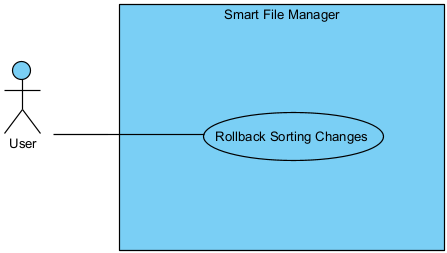
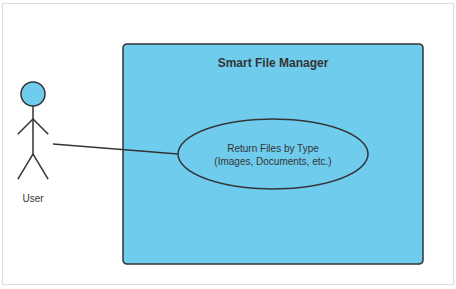
Updated assets and user stories

diff --git a/docs/documentation/demo_3/srs.md b/docs/documentation/demo_3/srs.md
@@ -45,26 +45,26 @@ SFM is not just another tool, it's your new digital housekeeper, your AI file fi
 
 **As a:** New user.  
 **I want to:** Register for an account using either the web portal or after downloading the app.  
-**So that I:** I can log in an sync all my preferences across multiple devices.
+**So that I:** I can log in and sync all my preferences across multiple devices.
 
 #### Acceptance criteria:
 
 **Given** I am a new user.  
-**When** I navigate to either the web portal registraton page or choose register on the application.  
+**When** I navigate to either the web portal registration page or choose register on the application.  
 **Then** My account is created and I should be notified that it took place successfully.  
-**Covers:** UC15
+**Covers:** UC19
 
-### 2. User Story: Download the Application
+### 2. User Story: Download and Install the Application
 
 **As a:** New or registered user.  
-**I want to:** Download the SFM app on to my device.  
-**So that I:** Can install the application.
+**I want to:** Download and install the SFM app on to my device.  
+**So that I:** Can use the application to manage my files.
 
 #### Acceptance criteria:
 
-**Given** I have access to the SFM portal.  
-**When** I click the correct download button for my platform (Windows /macOS / linux).  
-**Then** The application files are downloaded to my system.  
+**Given** I have access to the SFM portal and my system meets requirements.  
+**When** I click the correct download button for my platform (Windows /macOS / linux) and run the installer.  
+**Then** The application is successfully installed and ready for configuration.  
 **Covers:** UC1
 
 ### 3. User Story: Log into the application
@@ -89,8 +89,8 @@ SFM is not just another tool, it's your new digital housekeeper, your AI file fi
 #### Acceptance criteria:
 
 **Given** I have installed the application.  
-**When** I click on create new smart manager.  
-**Then** I am prompted for the root directory and a smart manager is created which sorts all the content by its semantic meaning.  
+**When** I click on create new smart manager and select a root directory.  
+**Then** A smart manager is created and the system updates its scan targets to monitor this directory.  
 **Covers:** UC8
 
 ### 5. User Story: Configure sorting preferences
@@ -102,8 +102,8 @@ SFM is not just another tool, it's your new digital housekeeper, your AI file fi
 #### Acceptance criteria:
 
 **Given** I have installed the application.  
-**When** I open the settings and configure rules for sorting and sorting timers.  
-**Then** My settings are saved and applied for future sorting.  
+**When** I open the settings and configure rules for sorting (metadata, keywords, tags) and sorting timers.  
+**Then** My configuration is saved and applied for future sorting.  
 **Covers:** UC3
 
 ### 6. User Story: Tag files manually
@@ -115,24 +115,11 @@ SFM is not just another tool, it's your new digital housekeeper, your AI file fi
 #### Acceptance criteria:
 
 **Given** The application is installed and a smart manager created.  
-**When** I open the settings and configure rules for sorting and sorting timers.  
-**Then** My settings are saved and applied for future sorting.  
+**When** I select files and assign custom tags to them.  
+**Then** Tags are stored and associated with the files for use in sorting.  
 **Covers:** UC4
 
-### 7. User Story: Auto-sort files
-
-**As a:** Smart Folder.  
-**I want to:** Automatically sort folders and files at a regular interval.  
-**So that I:** Keep directories organized without human intervention.
-
-#### Acceptance criteria:
-
-**Given** Files exist in a monitored directory and user preferences are set.  
-**When** The timer for sorting expires.  
-**Then** Files are moved to a more appropriate directory by the AI sorter.  
-**Covers:** UC5
-
-### 8. User Story: Graph File organization visualization
+### 7. User Story: Graph File organization visualization
 
 **As a:** User.  
 **I want to:** See how my files are organized via an intuitive mind-map / graph view.  
@@ -142,14 +129,14 @@ SFM is not just another tool, it's your new digital housekeeper, your AI file fi
 
 **Given** I have created a smart manager which contains content.  
 **When** I click on graph view.  
-**Then** I see an interactive graph of my files and folders.  
+**Then** I see an interactive graph-based UI of my files and folders.  
 **Covers:** UC7
 
-### 9. User Story: Traditional File organization visualization
+### 8. User Story: Traditional File organization visualization
 
 **As a:** User.  
 **I want to:** See how my files are organized via traditional folder viewer.  
-**So that I:** May traverse and interact with files in a well-know manner.
+**So that I:** May traverse and interact with files in a well-known manner.
 
 #### Acceptance criteria:
 
@@ -158,7 +145,7 @@ SFM is not just another tool, it's your new digital housekeeper, your AI file fi
 **Then** I can traverse through the folder structure by clicking on folders.  
 **Covers:** UC7
 
-### 10. User Story: Trigger Manual Sort
+### 9. User Story: Trigger Manual Sort
 
 **As a:** User.  
 **I want to:** Manually initiate a file sorting process.  
@@ -167,11 +154,11 @@ SFM is not just another tool, it's your new digital housekeeper, your AI file fi
 #### Acceptance criteria:
 
 **Given** The application is installed and settings configured.  
-**When** I click on Sort Now on a smart mananger.  
-**Then** The system initiates a reorganization of the smart manager.  
+**When** I click on Sort Now on a smart manager.  
+**Then** The sorting process begins and files are moved/sorted appropriately.  
 **Covers:** UC9
 
-### 11. User Story: Lock files and folders
+### 10. User Story: Lock files and folders
 
 **As a:** User.  
 **I want to:** Lock specific files and folders.  
@@ -181,10 +168,10 @@ SFM is not just another tool, it's your new digital housekeeper, your AI file fi
 
 **Given** I have a smart manager with content.  
 **When** I select a file or folder and click the lock button.  
-**Then** The item is excluded from future organization operations.  
+**Then** The item is excluded from future organization operations and locked items are skipped during sorting.  
 **Covers:** UC10
 
-### 12. User Story: View File metadata
+### 11. User Story: View File metadata
 
 **As a:** User.  
 **I want to:** See metadata associated with a file.  
@@ -192,38 +179,38 @@ SFM is not just another tool, it's your new digital housekeeper, your AI file fi
 
 #### Acceptance criteria:
 
-**Given** I have a smart manager with content.  
+**Given** I have a smart manager with content and files are indexed by the system.  
 **When** I select a file by clicking on it.  
-**Then** A side-menu pops up showing me the metadata associated with that file.  
-**Covers:** UC10
+**Then** A side-menu pops up showing me the detailed metadata associated with that file.  
+**Covers:** UC6
 
-### 13. User Story: Search files, tags or metadata
+### 12. User Story: Search files, tags or metadata
 
 **As a:** User.  
-**I want to:** Search for files using names, tags or metadata.  
+**I want to:** Search for files using names, tags or keywords.  
 **So that I:** Can quickly find relevant content.
 
 #### Acceptance criteria:
 
 **Given** My files are sorted in a smart manager.  
 **When** I enter a search query in the search bar.  
-**Then** A list of files matching the criteria is returned.  
+**Then** Search results matching the criteria are displayed.  
 **Covers:** UC11
 
-### 14. User Story: Rollback sorting changes
+### 13. User Story: Apply or Discard sorting changes
 
 **As a:** User.  
-**I want to:** Undo the last sorting operation.  
-**So that I:** Restore my organization to what is was before the last sort.
+**I want to:** Review sorting changes and decide whether to apply them or discard them.  
+**So that I:** Have control over whether changes are made to my file system.
 
 #### Acceptance criteria:
 
-**Given** I have performed a smart organization.  
-**When** I Click on the rollback button for a smart manager.  
-**Then** All files are returned to their exact previous location.  
-**Covers:** UC11
+**Given** I have performed a smart organization and sorting has occurred.  
+**When** I review the proposed changes and click apply or discard.  
+**Then** Either changes are applied to the file system or files return to their prior state.  
+**Covers:** UC12
 
-### 15. User Story: Add a new file or folder.
+### 14. User Story: Add a new file or folder
 
 **As a:** User.  
 **I want to:** Create a new file or folder at some location in my smart manager.  
@@ -236,10 +223,10 @@ SFM is not just another tool, it's your new digital housekeeper, your AI file fi
 **Then** The new item is added to the smart manager but not yet sorted.  
 **Covers:** UC8
 
-### 16. User Story: Stay logged in.
+### 15. User Story: Stay logged in
 
 **As a:** User.  
-**I want to:** Remained logged in after restarting the app.  
+**I want to:** Remain logged in after restarting the app.  
 **So that I:** Don't have to log in every time I open the app.
 
 #### Acceptance criteria:
@@ -249,17 +236,70 @@ SFM is not just another tool, it's your new digital housekeeper, your AI file fi
 **Then** I am automatically still logged in.  
 **Covers:** UC2
 
-### 17. User Story: Customize smart sort behaviour.
+### 16. User Story: Filter files by type
 
-**As an:** Advanced User.  
-**I want to:** Set the influence of tags, metadata and other criteria on the sorting AI.  
-**So that I:** Have fine control over the system.
+**As a:** User.  
+**I want to:** View files filtered by their type (e.g., images, documents, music).  
+**So that I:** Can quickly access specific types of content.
 
 #### Acceptance criteria:
 
-**Given** Advanced customization options are set.  
-**When** I adjust my customization options.  
-**Then** The changes influence future sorting.
+**Given** Files exist and are indexed by the system.  
+**When** I select a file type filter or request files of a specific type.  
+**Then** Files of the requested type are returned and displayed.  
+**Covers:** UC13
+
+### 17. User Story: Bulk tag operations
+
+**As a:** User.  
+**I want to:** Add or remove tags from multiple files at once.  
+**So that I:** Can efficiently manage tags across many files.
+
+#### Acceptance criteria:
+
+**Given** I have selected multiple files.  
+**When** I choose to add or remove tags in bulk.  
+**Then** The specified tags are added to or removed from all selected files.  
+**Covers:** UC14, UC15
+
+### 18. User Story: Find duplicate files
+
+**As a:** User.  
+**I want to:** Identify duplicate files across my monitored directories.  
+**So that I:** Can manage storage space and remove redundant files.
+
+#### Acceptance criteria:
+
+**Given** Files exist in monitored directories.  
+**When** I request duplicate file detection.  
+**Then** Duplicate file groups are identified and displayed.  
+**Covers:** UC16
+
+### 19. User Story: Bulk delete files
+
+**As a:** User.  
+**I want to:** Delete multiple files in a single operation.  
+**So that I:** Can efficiently clean up unwanted files.
+
+#### Acceptance criteria:
+
+**Given** Files exist and are indexed by the system.  
+**When** I select multiple files and choose delete.  
+**Then** All selected files are deleted from the system.  
+**Covers:** UC17
+
+### 20. User Story: View manager statistics
+
+**As a:** User.  
+**I want to:** See statistics about my file managers (file counts, sizes, tags, etc.).  
+**So that I:** Can understand and monitor my file organization.
+
+#### Acceptance criteria:
+
+**Given** I have smart managers configured.  
+**When** I request manager statistics.  
+**Then** Statistics including file counts, sizes, and tags are displayed across all managers.  
+**Covers:** UC18
 
 ## Use cases / Use Case Diagram
 
@@ -267,7 +307,7 @@ SFM is not just another tool, it's your new digital housekeeper, your AI file fi
 | ------------------------------------- | ----- | ---------------------------------------------------------------------------------------------------- | ------------------------------------------ | ---------------------------------------------------------- | ------------------------ |
 | UC1: Install Application              | User  | The user installs the SFM application on their device.                                               | System requirements met.                   | Application is ready for configuration.                    | ![UC1](assets/UC1.png)   |
 | UC2: Login                            | User  | The user logs in to save preferences across devices (optional).                                      | User is registered.                        | Preferences are saved.                                     | ![UC2](assets/UC2.png)   |
-| UC3: Configure Sorting Preferences    | User  | The user sets preferences for how sorting should occur (rules: metadata, keywords, tags).            | Application is installed.                  | Configuration is saved.                                    | ![UC3](assets/UC3.png)   |
+| UC3: Configure Sorting Preferences    | User  | The user sets preferences for how sorting should occur (rules: locks, tags).            | Application is installed.                  | Configuration is saved.                                    | ![UC3](assets/UC3.png)   |
 | UC4: Tag Files Manually               | User  | The user assigns custom tags to files.                                                               | Application is installed.                  | Tags are stored and used for sorting.                      | ![UC4](assets/UC4.png)   |
 | UC5: Sort Files                       | User  | The user manually initiates sorting of files into directories based on metadata, keywords, and tags. | Files exist in monitored directories.      | Files are moved/sorted appropriately.                      | ![UC5](assets/UC5.png)   |
 | UC6: View File Metadata               | User  | The user views detailed metadata of any file managed by SFM.                                         | File exists and is indexed by the system.  | Metadata displayed.                                        | ![UC6](assets/UC6.png)   |
